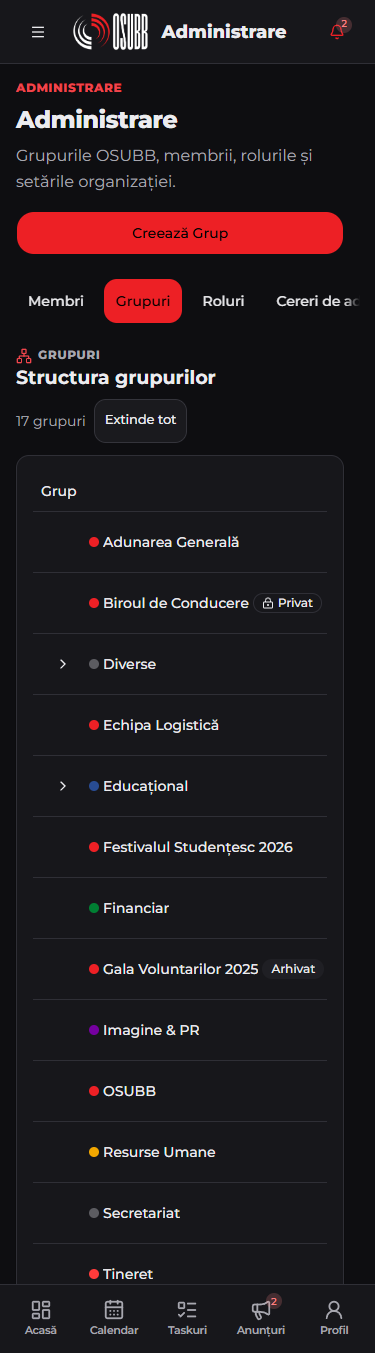
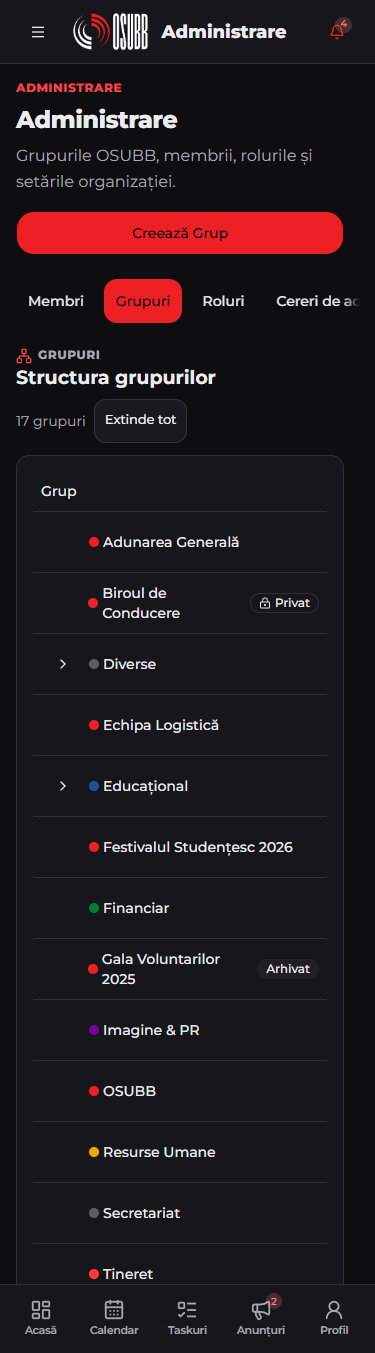
fix(administrare): the Group tree and Roster fit 375 px (#853)
Names wrap in the Grupuri tables; the tree's detail columns and the
Roster's OSUBB Role hide under 640 px.

diff --git a/app/src/screens/administrare/AdminGroupsTab.tsx b/app/src/screens/administrare/AdminGroupsTab.tsx
@@ -41,7 +41,7 @@ import {
 /* The name link fills the row's height (layout AD6), and the row itself opens
    the Group on a click, so the 20 px name is no longer the only target. */
 const nameLinkClass =
-  'inline-flex min-h-11 min-w-0 items-center truncate font-medium text-foreground underline-offset-4 hover:underline focus-visible:outline-2 focus-visible:outline-ring';
+  'inline-flex min-h-11 min-w-0 items-center font-medium wrap-break-word text-foreground underline-offset-4 hover:underline focus-visible:outline-2 focus-visible:outline-ring';
 const rowLinkClass = 'cursor-pointer';
 
 function groupPath(id: number) {
@@ -271,6 +271,14 @@ function GroupTree({ groups }: { groups: AdminGroup[] }) {
         columns={columns}
         data={shown}
         emptyTitle="Niciun grup."
+        // Under 640 px the tree is the names: a long one wraps, and the
+        // detail columns wait for the Group page.
+        columnClassName={{
+          name: 'whitespace-normal',
+          category: 'max-sm:hidden',
+          min_level: 'max-sm:hidden',
+          members: 'max-sm:hidden',
+        }}
         rowClassName={(row) =>
           row.group.status === 'active'
             ? rowLinkClass
@@ -299,6 +307,7 @@ function MyGroupsTable({
       columns={columns}
       data={groups}
       initialSorting={[{ id: 'name', desc: false }]}
+      columnClassName={{ name: 'whitespace-normal' }}
       emptyTitle="Nu ai nicio funcție într-un grup."
       emptyDescription="Grupurile în care ai o funcție apar aici."
       rowClassName={() => rowLinkClass}

diff --git a/app/src/screens/administrare/GroupRosterTab.tsx b/app/src/screens/administrare/GroupRosterTab.tsx
@@ -358,6 +358,9 @@ export function GroupRosterTab({
         columns={columns}
         data={roster}
         initialSorting={[{ id: 'name', desc: false }]}
+        // Under 640 px the name, the function and the action fit; the
+        // OSUBB Role waits for the member page.
+        columnClassName={{ role: 'max-sm:hidden' }}
         emptyTitle={
           group.automatic_membership
             ? 'Membrii acestui grup se adaugă automat, după nivel.'
